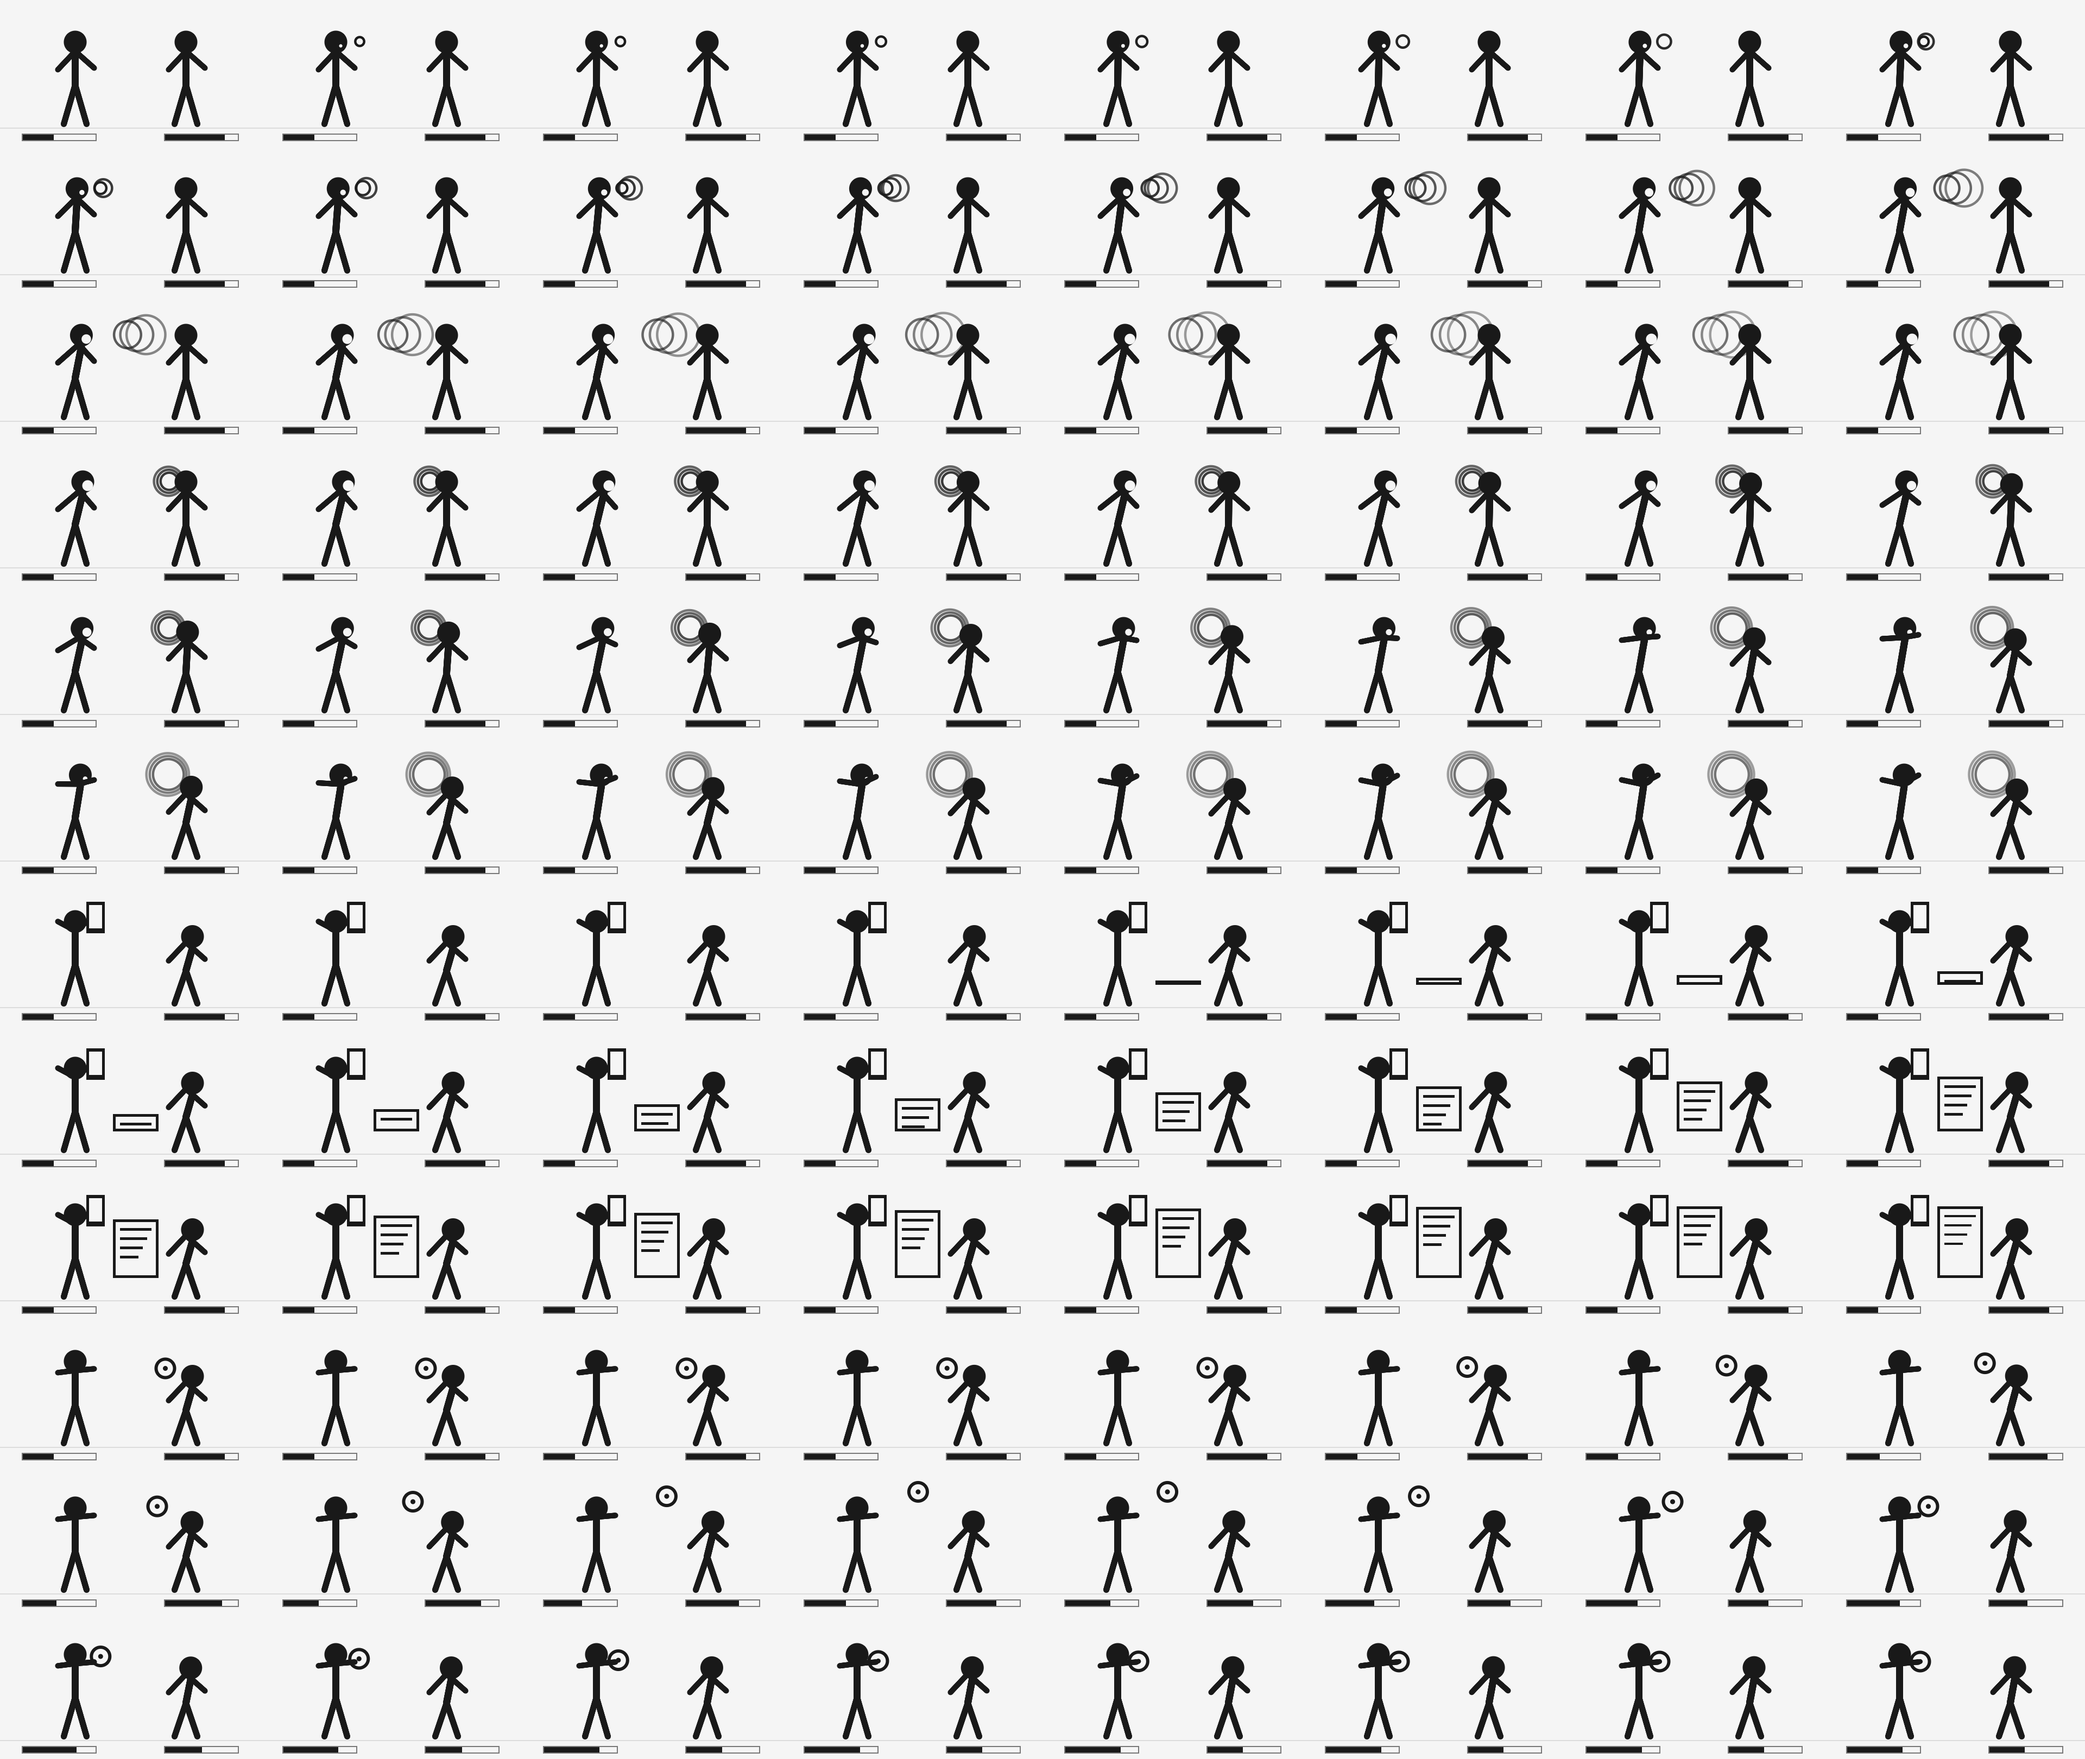
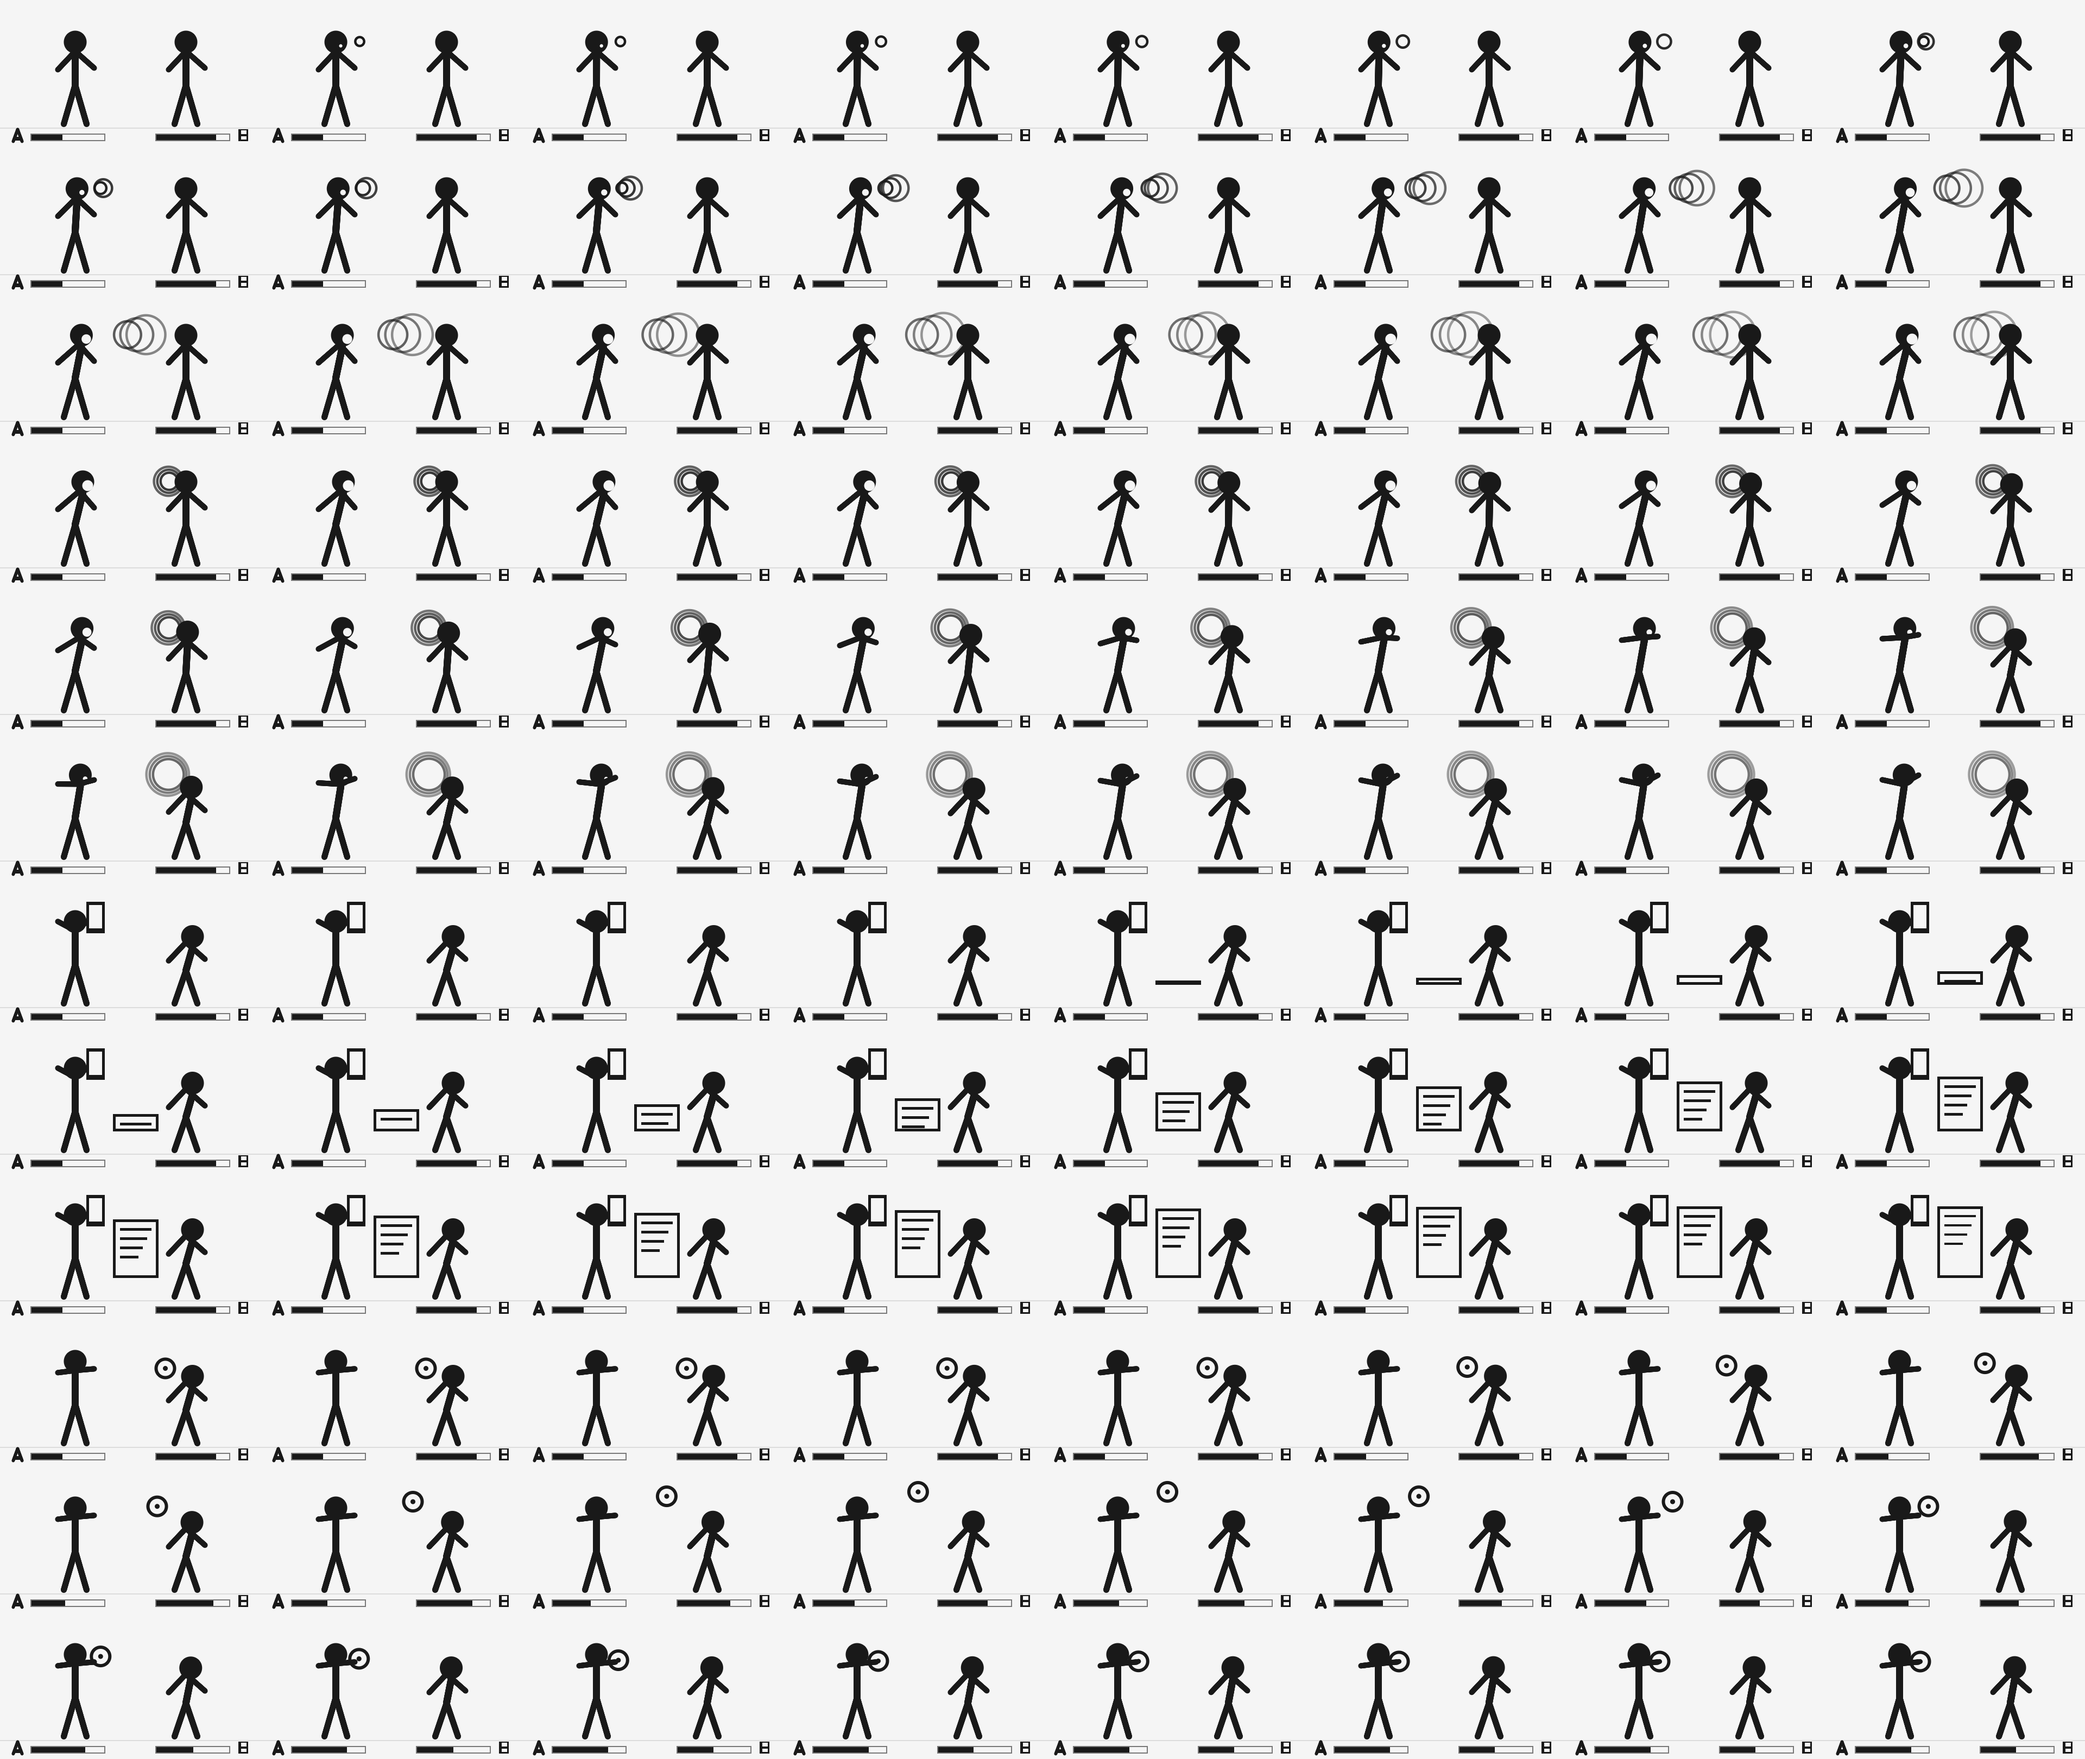
[ADD] name the two accounts so a newcomer can follow the mechanic
The captions were written in the second person — "you roast someone", "it
lands" — which reads fine if you already know how the product works and not at
all if you don't. Nothing bound the words to the two anonymous figures on
screen, so a reader could not tell which one was owed and which was paying.

Both halves now name the same two actors. The captions talk about Person A and
Person B and state the transfer outright; the artwork labels its two balance
gauges A and B, on the same sides the figures stand on, so the mapping needs no
explaining. Step 01 points at the gauges before they start moving.

Letterforms are drawn, not typeset, since the rasteriser has no font. Assembling
a B from bars merged it into a filled rectangle at this size, so it is a stencil
— a block with its counters punched out, counters wider than tall or it reads
as an 8. Verified by cropping the ledger strip at 3x rather than guessing.

Also fixed an aspect-blind vignette that was fading out the frame's horizontal
extremes: it is now measured in viewport-normalised coordinates, so it stops
eating the edges of the artwork, the labelled gauges included.

126 tests, typecheck clean, build verified against a running server.

diff --git a/components/sections/StoryScrub.test.tsx b/components/sections/StoryScrub.test.tsx
@@ -51,11 +51,11 @@ afterEach(() => {
 describe("StoryScrub", () => {
   it("exposes the whole mechanic as a plain list in server markup", () => {
     const markup = renderToStaticMarkup(<StoryScrub />);
-    expect(markup).toContain("You roast someone.");
-    expect(markup).toContain("Settlement clears.");
-    // The supporting lines are where the mechanic is actually explained.
-    expect(markup).toContain("State the amount you are owed. Attach the evidence.");
-    expect(markup).toContain("Underwriters approve by hand. Their balance debits. Yours credits.");
+    // Named actors are what make the mechanic legible to a newcomer.
+    expect(markup).toContain("Person A roasts Person B.");
+    expect(markup).toContain("Person A files a claim.");
+    expect(markup).toContain("Person B&#x27;s aura moves to Person A.");
+    expect(markup).toContain("Naming Person B, the amount owed, and evidence of the roast.");
     // No scroll readout without JavaScript — it would be meaningless.
     expect(markup).not.toContain("Tape");
   });
@@ -101,8 +101,9 @@ describe("StoryScrub", () => {
   it("shows the first step, headline and explanation, at the start", () => {
     positionSection({ top: 0, height: 4000 });
     const { container } = render(<StoryScrub />);
-    expect(activeStep(container)?.textContent).toContain("You roast someone.");
-    expect(activeStep(container)?.textContent).toContain("Aura is owed from that moment.");
+    expect(activeStep(container)?.textContent).toContain("Person A roasts Person B.");
+    // Step one also points the reader at the balance gauges in the artwork.
+    expect(activeStep(container)?.textContent).toContain("Watch their balances");
   });
 
   it("advances the step as the section scrolls past", () => {
@@ -114,8 +115,8 @@ describe("StoryScrub", () => {
       window.dispatchEvent(new Event("scroll"));
     });
 
-    expect(activeStep(container)?.textContent).toContain("You file a claim.");
-    expect(activeStep(container)?.textContent).toContain("Attach the evidence.");
+    expect(activeStep(container)?.textContent).toContain("Person A files a claim.");
+    expect(activeStep(container)?.textContent).toContain("evidence of the roast");
   });
 
   it("reaches the final step at the end of the story", () => {
@@ -124,7 +125,7 @@ describe("StoryScrub", () => {
     act(() => {
       window.dispatchEvent(new Event("scroll"));
     });
-    expect(activeStep(container)?.textContent).toContain("Settlement clears.");
+    expect(activeStep(container)?.textContent).toContain("Person B's aura moves to Person A.");
   });
 
   it("hides only the inactive steps from assistive technology", () => {

diff --git a/components/sections/StoryScrub.tsx b/components/sections/StoryScrub.tsx
@@ -17,23 +17,23 @@ const SCREENS = 4;
 const STEPS = [
   {
     number: "01",
-    headline: "You roast someone.",
-    support: "Aura is owed from that moment. The paperwork comes later.",
+    headline: "Person A roasts Person B.",
+    support: "Two accounts. Watch their balances at the bottom of the screen.",
   },
   {
     number: "02",
-    headline: "It lands.",
-    support: "The debt exists whether or not anyone admits it.",
+    headline: "Person B now owes aura.",
+    support: "Owed from the moment it landed. Nothing has moved yet.",
   },
   {
     number: "03",
-    headline: "You file a claim.",
-    support: "State the amount you are owed. Attach the evidence.",
+    headline: "Person A files a claim.",
+    support: "Naming Person B, the amount owed, and evidence of the roast.",
   },
   {
     number: "04",
-    headline: "Settlement clears.",
-    support: "Underwriters approve by hand. Their balance debits. Yours credits.",
+    headline: "Person B's aura moves to Person A.",
+    support: "Underwriters approve by hand. Aura is never created — only transferred.",
   },
 ] as const;
 

diff --git a/app/page.test.tsx b/app/page.test.tsx
@@ -13,17 +13,16 @@ describe("landing page", () => {
   it("leads with the institution and its promise", () => {
     expect(markup).toContain("AURABANK");
     expect(markup).toContain("The central bank of aura.");
-    expect(markup).toContain("Aura is not created. It is transferred.");
+    expect(markup).toContain("Aura Mukhyam");
   });
 
   it("explains the mechanic in the story captions, readable without JavaScript", () => {
     for (const line of [
-      "You roast someone.",
-      "It lands.",
-      "You file a claim.",
-      "Settlement clears.",
-      "State the amount you are owed. Attach the evidence.",
-      "Underwriters approve by hand. Their balance debits. Yours credits.",
+      "Person A roasts Person B.",
+      "Person B now owes aura.",
+      "Person A files a claim.",
+      "Naming Person B, the amount owed, and evidence of the roast.",
+      "Underwriters approve by hand.",
     ]) {
       expect(markup).toContain(line);
     }

diff --git a/components/canvas/guilloche-shaders.ts b/components/canvas/guilloche-shaders.ts
@@ -78,8 +78,12 @@ void main() {
   float derivative = length(vec2(dFdx(wave), dFdy(wave))) + 1e-5;
   float line = 1.0 - smoothstep(derivative, derivative * 2.0, distanceToLine);
 
-  // Vignette so type always sits on clean paper.
-  float vignette = 1.0 - smoothstep(0.55, 1.5, length(uv));
+  // Vignette so type always sits on clean paper. Measured in viewport-normalised
+  // coordinates (-1..1 on both axes) rather than in uv, which is scaled by
+  // aspect — an aspect-blind vignette eats the edges of the artwork, including
+  // the labelled balance gauges along the bottom.
+  vec2 normalised = (gl_FragCoord.xy * 2.0 - uResolution) / uResolution;
+  float vignette = 1.0 - smoothstep(0.85, 1.55, length(normalised));
 
   float ambient = line * vignette * uOpacity;
   // The figure's own lines carry more weight, plus a faint wash so the shape

diff --git a/components/sections/Hero.tsx b/components/sections/Hero.tsx
@@ -24,7 +24,7 @@ export function Hero() {
             The central bank of aura.
           </p>
           <p className="max-w-[34ch] font-mono text-sm leading-relaxed text-ink/60 md:justify-self-end">
-            Aura is not created. It is transferred.
+            Aura Mukhyam
           </p>
         </div>
       </div>

diff --git a/docs/superpowers/specs/2026-08-23-aurabank-landing-design.md b/docs/superpowers/specs/2026-08-23-aurabank-landing-design.md
@@ -96,16 +96,18 @@ A section four viewport-heights tall. The first height pins it; the remaining th
 
 | | Headline | Explanation |
 |---|---|---|
-| `01` | You roast someone. | Aura is owed from that moment. The paperwork comes later. |
-| `02` | It lands. | The debt exists whether or not anyone admits it. |
-| `03` | You file a claim. | State the amount you are owed. Attach the evidence. |
-| `04` | Settlement clears. | Underwriters approve by hand. Their balance debits. Yours credits. |
+| `01` | Person A roasts Person B. | Two accounts. Watch their balances at the bottom of the screen. |
+| `02` | Person B now owes aura. | Owed from the moment it landed. Nothing has moved yet. |
+| `03` | Person A files a claim. | Naming Person B, the amount owed, and evidence of the roast. |
+| `04` | Person B's aura moves to Person A. | Underwriters approve by hand. Aura is never created — only transferred. |
+
+**Named actors are what make this legible to a newcomer.** An earlier version wrote the same steps in the second person — "you roast someone", "it lands" — and it did not land, because nothing bound the words to the two anonymous figures on screen. Naming Person A and Person B, labelling the two balance gauges `A` and `B` in the artwork, and putting them on the same sides as the figures gives the reader a mapping they never have to be taught. Step 01's explanation points at the gauges explicitly, so the instrument is introduced before it starts moving.
 
 One step shows at a time, cross-faded, over a soft paper wash that keeps type crisp where it crosses the engraving.
 
 **Nothing else is on screen while the story runs.** A step rail and a tape-position readout were both tried and removed: they collided with the artwork's balance bars and split attention three ways. During the scrub the viewport holds the artwork, the current step, and nothing more.
 
-The **balance bars drawn into the artwork are the only instrumentation**, and they carry the information that matters — aura leaving one account and arriving in another. They are drawn as outlined gauges rather than plain bars, because a near-white track disappears once engraved, and the pinned band at the bottom of the section reserves clear space for them so no DOM element ever sits on top of the ledger.
+The **balance gauges drawn into the artwork are the only instrumentation**, and they carry the information that matters — aura leaving one account and arriving in another. They are outlined rather than plain bars, because a near-white track disappears once engraved, and each is labelled with its account (`A` left, `B` right) in drawn stencil letterforms, since the rasteriser has no font. The pinned band at the bottom of the section reserves clear space for them so no DOM element ever sits on top of the ledger.
 
 Without JavaScript, or under reduced motion, every step renders as a plain numbered list with its explanation — the most informative state of the page, readable with no scrolling at all.
 

diff --git a/README.md b/README.md
@@ -52,6 +52,13 @@ into the guilloché line field. Scrubbing a video file would mean seeking on
 every frame, which stutters forwards and is far worse backwards; picking an
 atlas cell costs the same in either direction.
 
+The captions name **Person A and Person B**, and the two balance gauges in the
+artwork are labelled `A` and `B` on the same sides the figures stand on — so the
+words and the picture refer to the same people without anything having to
+explain the mapping. Writing the steps in the second person ("you roast
+someone") was tried first and did not read: nothing tied the text to the two
+anonymous figures on screen.
+
 While the story runs, the viewport holds the artwork, the current step, and
 nothing else. The artwork's two **balance gauges** are the only instrumentation —
 they show aura leaving one account and arriving in another — so the section
